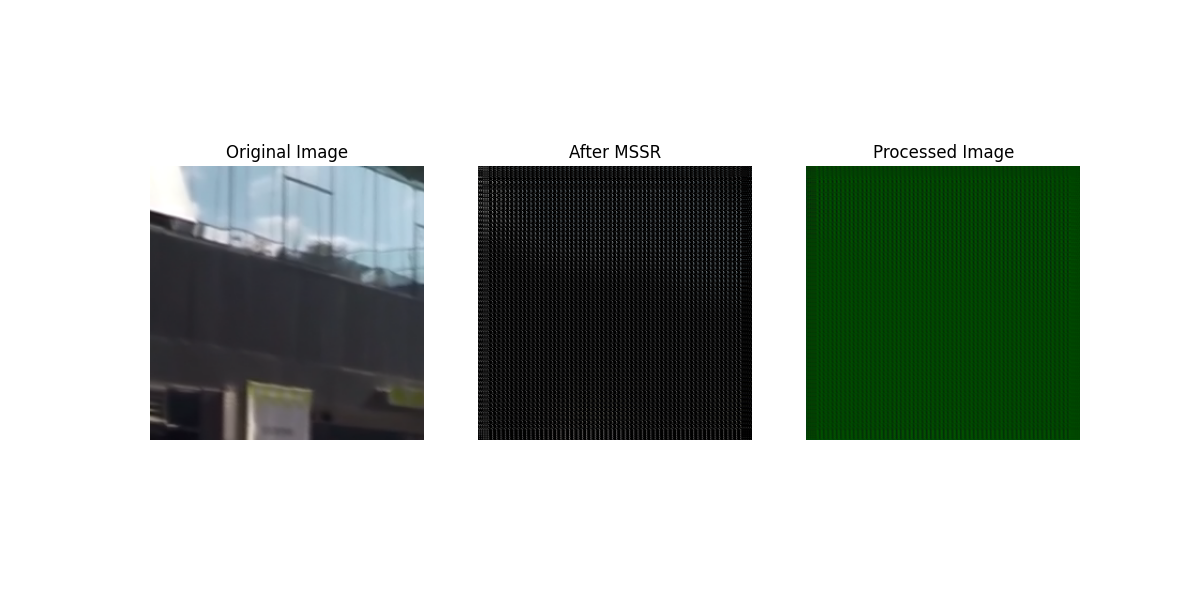
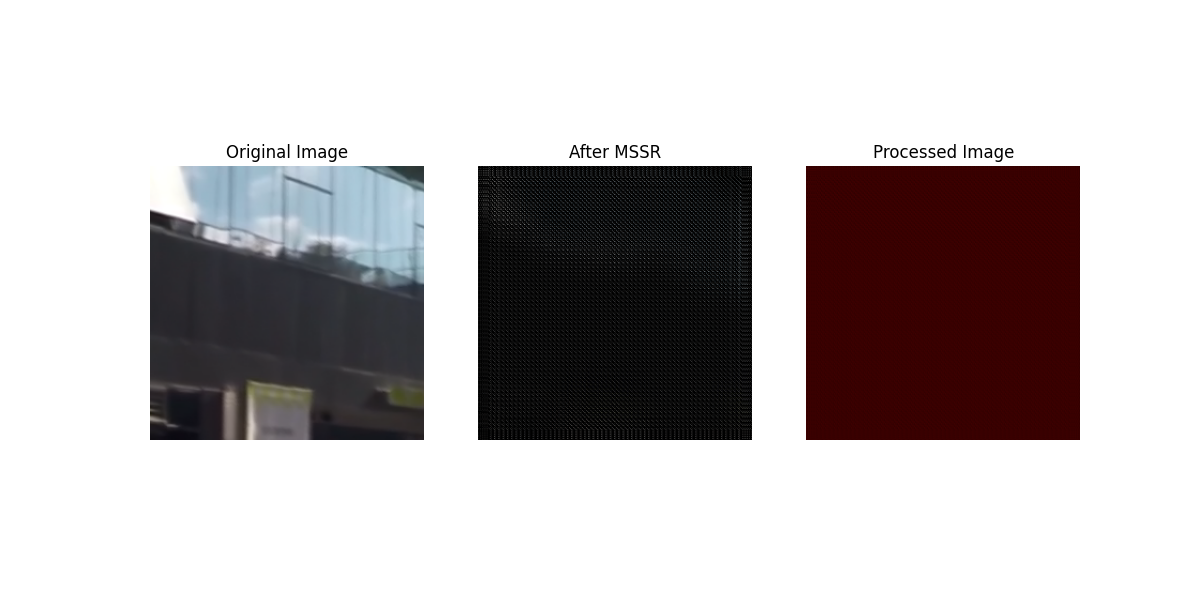
most recent wip

Changed region(s): [[0.4008, 0.27, 0.925, 0.75]]

diff --git a/run.py b/run.py
@@ -34,7 +34,7 @@ def main():
     img_tensor = torch.from_numpy(img.transpose(2, 0, 1)).float().unsqueeze(0)
 
     # Normalize to [0, 1]
-    img_tensor = img_tensor / 255.0
+    # img_tensor = img_tensor / 255.0
 
     print(f"Input tensor shape: {img.shape}")
     
@@ -48,6 +48,7 @@ def main():
         step_sizes=[2, 4, 8]  # Example step sizes for the three blocks
     )  # Adjust parameters as needed
     mssr_output = mssr_network(img_tensor)
+    
     print(f"After MSSR block: {mssr_output.shape}")
     
     if mssr_output.is_cuda:

diff --git a/channelMLP.py b/channelMLP.py
@@ -37,7 +37,6 @@ class ChannelMLP(nn.Module):
         self.gelu = nn.GELU()
 
     def forward(self, x):
-        # Input: [B, C, H, W]
         x = self.fc1(x)
         x = self.gelu(x)
         x = self.dwconv(x)
